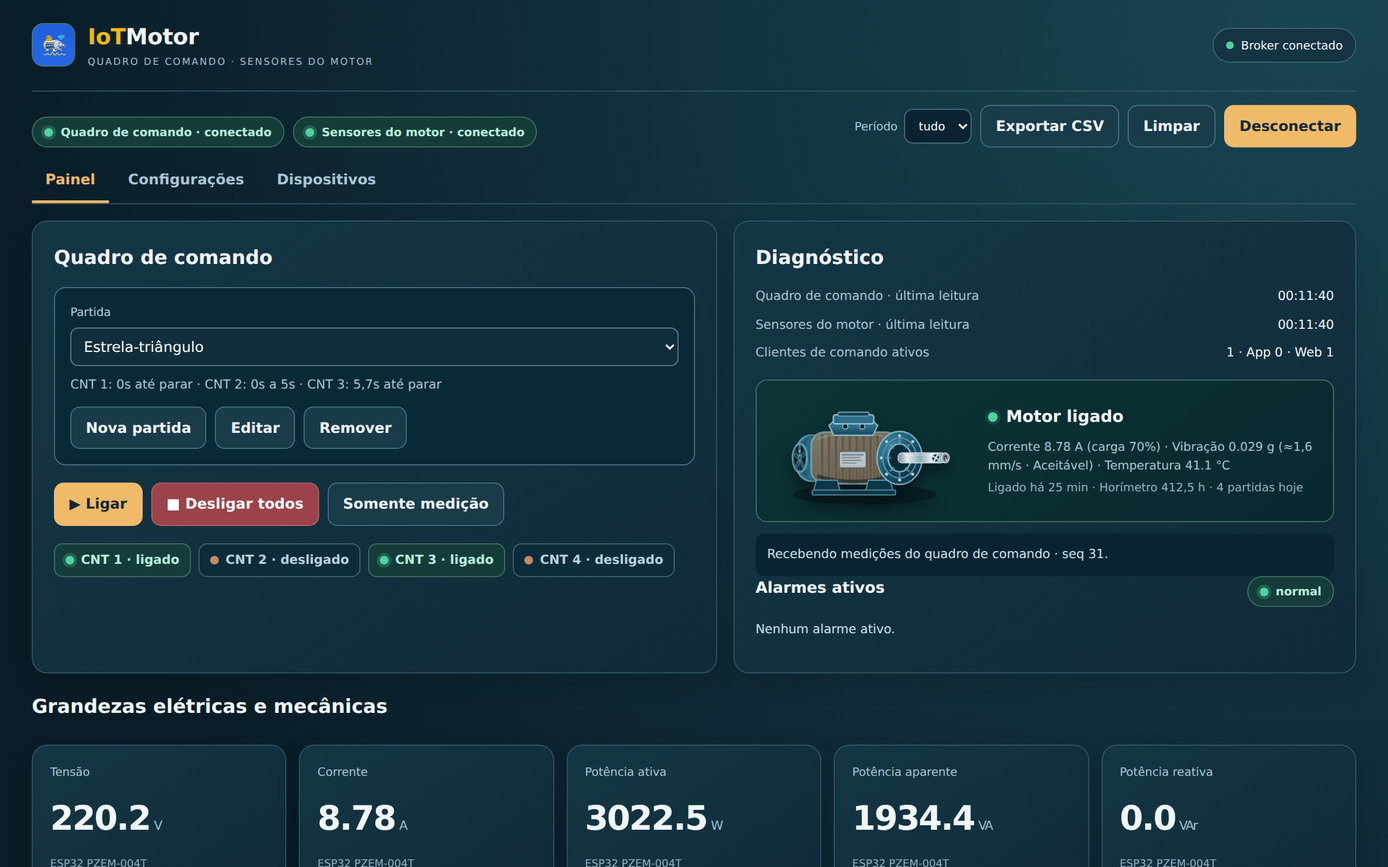
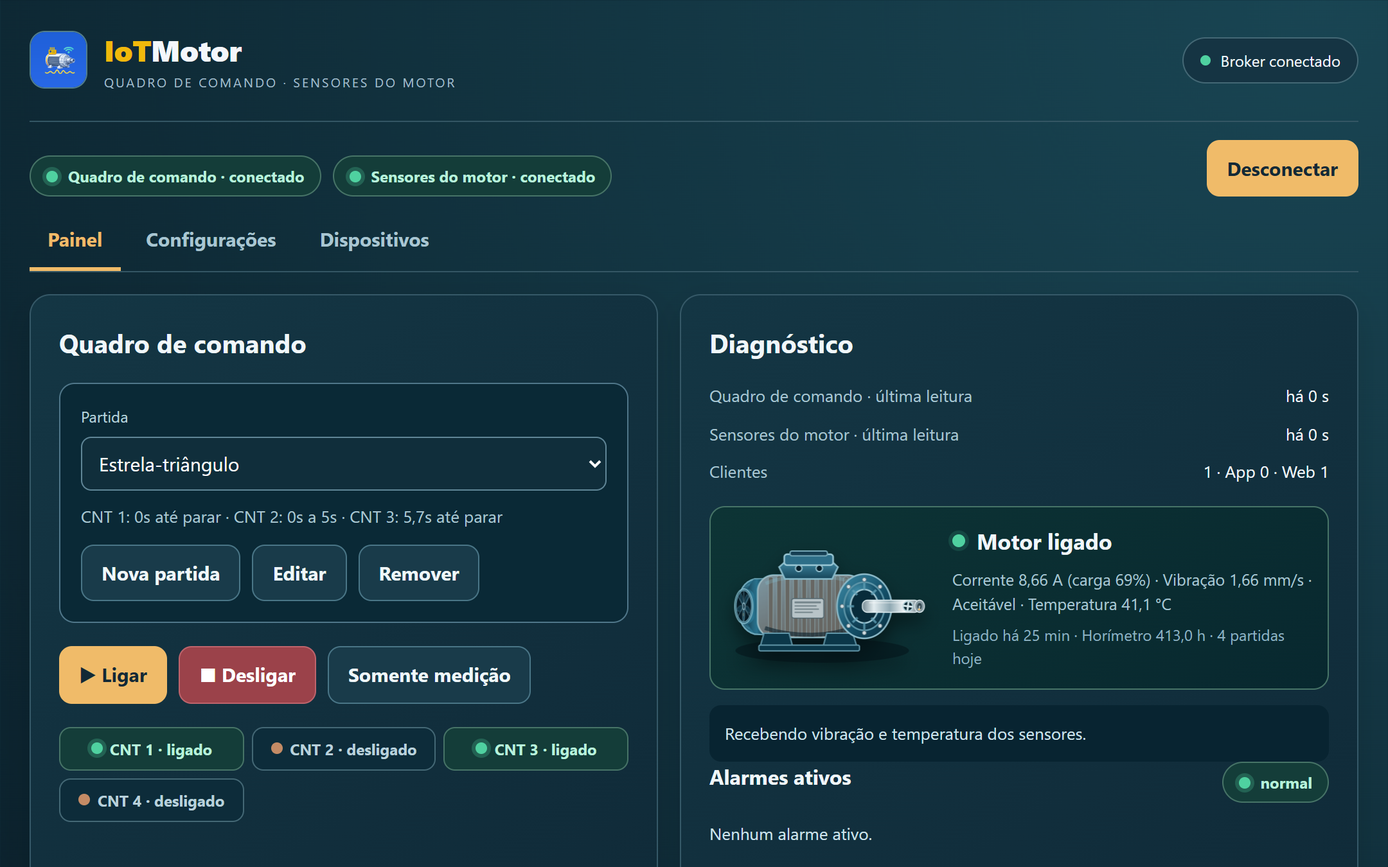
Polish dashboard readability and refresh doc screenshots
- Decimal comma in every on-screen number (cards, motor summary, chart axes,
  alarm warnings); CSV export keeps the dot.
- Last reading shown as age ("há 3 s"), red once it is stale.
- Disabled buttons use a neutral style instead of a faded action colour.
- Export CSV / Limpar move from the top bar to the real-time charts card.
- Contactor chips wrap instead of overflowing on medium widths.
- Empty feedback boxes collapse.
- New tools/capturar-telas.mjs renders docs/images from the dashboard with an
  in-page fake broker; all screenshots regenerated for v26 / s3-1.20.

diff --git a/dashboard-cloudflare/index.html b/dashboard-cloudflare/index.html
@@ -8,11 +8,11 @@
 <style>
 :root{font:15px/1.5 Inter,system-ui,-apple-system,Segoe UI,sans-serif;background:#091c27;color:#f0f7fa;color-scheme:dark}*{box-sizing:border-box}body{margin:0;min-height:100vh;background:radial-gradient(circle at 95% 0%,#194553,transparent 40%),#091c27}h1,h2,h3,p{margin-top:0}h1{font-size:clamp(31px,4vw,49px);letter-spacing:-.04em;margin-bottom:7px}h2{font-size:20px}h3{font-size:16px}button,input,select{font:inherit}button{cursor:pointer;-webkit-tap-highlight-color:transparent;transition:filter .06s ease,transform .06s ease}
 button:not(:disabled):active{filter:brightness(.975);transform:translateY(.75px)}
-@media(prefers-reduced-motion:reduce){button{transition:none;transform:none!important}}button:focus-visible,input:focus-visible,select:focus-visible{outline:3px solid #f7bb62;outline-offset:3px}.shell{max-width:1420px;margin:auto;padding:0 23px 38px}.top{display:flex;align-items:center;justify-content:space-between;gap:14px;flex-wrap:wrap;padding:22px 0;border-bottom:1px solid #345664}.brand{display:flex;align-items:center;gap:13px}.mark{display:grid;place-items:center;width:45px;height:45px;border-radius:12px;background:#1b4350;color:#f0bb69;border:1px solid #527e8c;font-size:24px}.brand b{font-size:23px;font-weight:800;color:#f4f7fb;letter-spacing:-.01em}.brand b .iot{color:#f0b90b}.brand small{display:block;font-size:10px;letter-spacing:.15em;color:#a3bfcb}.pill{display:inline-flex;align-items:center;gap:8px;border:1px solid #446875;background:#153443;border-radius:30px;padding:8px 13px;font-size:12px}.pill:before{content:"";width:8px;height:8px;border-radius:50%;background:#a4b2bb}.pill.live:before{background:#4fd1a0}.pill.error:before{background:#f88781}.pill.wait:before{background:#f0bb69}main{padding-top:28px}.intro,.graph-head{display:flex;justify-content:space-between;align-items:end;gap:16px;flex-wrap:wrap}.intro{margin-bottom:20px}.eyebrow{font-size:11px;font-weight:800;letter-spacing:.18em;color:#f0bb69}.muted{font-size:13px;color:#abc7d2}.actions,.buttons,.sources,.filters{display:flex;gap:9px;flex-wrap:wrap}.btn{background:#f0bb69;color:#132936;border:1px solid #f0bb69;border-radius:10px;padding:10px 15px;font-weight:750}.btn.secondary{background:#193b4a;border-color:#4a7687;color:#eff8fa}.btn.danger{background:#9b424a;border-color:#bf646c;color:white}.btn:disabled{opacity:.45;cursor:not-allowed}.notice{padding:15px 19px;margin-bottom:17px;background:#332e22;color:#f5e2b8;border:1px solid #77623d;border-radius:12px;font-size:13px}.source{display:inline-flex;align-items:center;gap:8px;border:1px solid #446875;border-radius:30px;background:#153443;color:#d3e6ee;padding:6px 12px;font-size:12px;font-weight:750}.source:before{content:"";flex:none;width:9px;height:9px;border-radius:50%;background:#a4b2bb}.source.live{border-color:#477467;background:#143d39;color:#b8f1db}.source.live:before{background:#4fd1a0;box-shadow:0 0 0 3px #4fd1a040}.source.wait{border-color:#77623d;background:#332e22;color:#f5e2b8}.source.wait:before{background:#f0bb69}.source.error{border-color:#8a4c52;background:#3b2327;color:#f8cfcb}.source.error:before{background:#f88781}.cnts{display:grid;grid-template-columns:repeat(4,minmax(0,1fr));gap:6px;margin:4px 0 16px}.cnt{display:inline-flex;align-items:center;justify-content:center;gap:6px;min-width:0;white-space:nowrap;border:1px solid #446875;border-radius:9px;background:#0d2c3a;color:#b9d1db;padding:7px 8px;font-size:12px;font-weight:750}.cnt:before{content:"";width:9px;height:9px;border-radius:50%;background:#6f8793}.cnt.on{border-color:#477467;background:#143d39;color:#b8f1db}.cnt.on:before{background:#4fd1a0;box-shadow:0 0 0 3px #4fd1a040}.cnt.off:before{background:#c48b65}.tabs{display:flex;gap:6px;margin:0 0 17px;border-bottom:1px solid #345664;overflow-x:auto}.tabs button{border:0;border-bottom:3px solid transparent;background:none;color:#a9c6d2;padding:10px 14px;font-weight:750;white-space:nowrap}.tabs button[aria-selected="true"]{color:#f0bb69;border-bottom-color:#f0bb69}.wifi{padding:22px;margin-bottom:19px}.wifi h3{margin:22px 0 10px}.wifi-head{display:flex;justify-content:space-between;align-items:start;gap:16px;flex-wrap:wrap}.segmented{display:inline-flex;border:1px solid #456779;border-radius:10px;overflow:hidden}.segmented button{border:0;background:#173847;color:#cce5ee;padding:9px 14px;font-weight:700}.segmented button[aria-pressed="true"]{background:#f0bb69;color:#132936}
+@media(prefers-reduced-motion:reduce){button{transition:none;transform:none!important}}button:focus-visible,input:focus-visible,select:focus-visible{outline:3px solid #f7bb62;outline-offset:3px}.shell{max-width:1420px;margin:auto;padding:0 23px 38px}.top{display:flex;align-items:center;justify-content:space-between;gap:14px;flex-wrap:wrap;padding:22px 0;border-bottom:1px solid #345664}.brand{display:flex;align-items:center;gap:13px}.mark{display:grid;place-items:center;width:45px;height:45px;border-radius:12px;background:#1b4350;color:#f0bb69;border:1px solid #527e8c;font-size:24px}.brand b{font-size:23px;font-weight:800;color:#f4f7fb;letter-spacing:-.01em}.brand b .iot{color:#f0b90b}.brand small{display:block;font-size:10px;letter-spacing:.15em;color:#a3bfcb}.pill{display:inline-flex;align-items:center;gap:8px;border:1px solid #446875;background:#153443;border-radius:30px;padding:8px 13px;font-size:12px}.pill:before{content:"";width:8px;height:8px;border-radius:50%;background:#a4b2bb}.pill.live:before{background:#4fd1a0}.pill.error:before{background:#f88781}.pill.wait:before{background:#f0bb69}main{padding-top:28px}.intro,.graph-head{display:flex;justify-content:space-between;align-items:end;gap:16px;flex-wrap:wrap}.intro{margin-bottom:20px}.eyebrow{font-size:11px;font-weight:800;letter-spacing:.18em;color:#f0bb69}.muted{font-size:13px;color:#abc7d2}.actions,.buttons,.sources,.filters{display:flex;gap:9px;flex-wrap:wrap}.btn{background:#f0bb69;color:#132936;border:1px solid #f0bb69;border-radius:10px;padding:10px 15px;font-weight:750}.btn.secondary{background:#193b4a;border-color:#4a7687;color:#eff8fa}.btn.danger{background:#9b424a;border-color:#bf646c;color:white}.btn:disabled{background:#16303c;border-color:#2f4c58;color:#7d97a2;opacity:1;cursor:not-allowed}.details dd.velha{color:#f8cfcb}.notice{padding:15px 19px;margin-bottom:17px;background:#332e22;color:#f5e2b8;border:1px solid #77623d;border-radius:12px;font-size:13px}.source{display:inline-flex;align-items:center;gap:8px;border:1px solid #446875;border-radius:30px;background:#153443;color:#d3e6ee;padding:6px 12px;font-size:12px;font-weight:750}.source:before{content:"";flex:none;width:9px;height:9px;border-radius:50%;background:#a4b2bb}.source.live{border-color:#477467;background:#143d39;color:#b8f1db}.source.live:before{background:#4fd1a0;box-shadow:0 0 0 3px #4fd1a040}.source.wait{border-color:#77623d;background:#332e22;color:#f5e2b8}.source.wait:before{background:#f0bb69}.source.error{border-color:#8a4c52;background:#3b2327;color:#f8cfcb}.source.error:before{background:#f88781}.cnts{display:grid;grid-template-columns:repeat(auto-fit,minmax(142px,1fr));gap:6px;margin:4px 0 16px}.cnt{display:inline-flex;align-items:center;justify-content:center;gap:6px;min-width:0;white-space:nowrap;border:1px solid #446875;border-radius:9px;background:#0d2c3a;color:#b9d1db;padding:7px 8px;font-size:12px;font-weight:750}.cnt:before{content:"";flex:none;width:9px;height:9px;border-radius:50%;background:#6f8793}.cnt.on{border-color:#477467;background:#143d39;color:#b8f1db}.cnt.on:before{background:#4fd1a0;box-shadow:0 0 0 3px #4fd1a040}.cnt.off:before{background:#c48b65}.tabs{display:flex;gap:6px;margin:0 0 17px;border-bottom:1px solid #345664;overflow-x:auto}.tabs button{border:0;border-bottom:3px solid transparent;background:none;color:#a9c6d2;padding:10px 14px;font-weight:750;white-space:nowrap}.tabs button[aria-selected="true"]{color:#f0bb69;border-bottom-color:#f0bb69}.wifi{padding:22px;margin-bottom:19px}.wifi h3{margin:22px 0 10px}.wifi-head{display:flex;justify-content:space-between;align-items:start;gap:16px;flex-wrap:wrap}.segmented{display:inline-flex;border:1px solid #456779;border-radius:10px;overflow:hidden}.segmented button{border:0;background:#173847;color:#cce5ee;padding:9px 14px;font-weight:700}.segmented button[aria-pressed="true"]{background:#f0bb69;color:#132936}
 /* Placa com firmware diferente do publicado: ponto âmbar na aba e no seletor. */
 .tabs button[data-update="true"]:after,.segmented button[data-update="true"]:after{content:"";display:inline-block;width:8px;height:8px;margin-left:7px;border-radius:50%;background:#f59e0b;vertical-align:middle}
 .segmented button[aria-pressed="true"][data-update="true"]:after{background:#9a3412}.wifi-status{font-size:13px;color:#cee3eb;margin:6px 0 12px}
-.wifi-list{list-style:none;margin:0;padding:0;display:grid;gap:8px;counter-reset:prio}.wifi-list li{counter-increment:prio;display:flex;align-items:center;gap:10px;flex-wrap:wrap;background:#0b2a37;border:1px solid #365968;border-radius:11px;padding:10px 12px}.wifi-list li:before{content:counter(prio);display:grid;place-items:center;flex:none;width:26px;height:26px;border-radius:50%;background:#1b4350;color:#f0bb69;font-weight:800;font-size:13px}.wifi-list li.atual{border-color:#477467}.wifi-list li.aviso{border-color:#77623d}.wifi-list li.aviso .tag{color:#f3d7a6;border-color:#77623d;background:#33291a}.wifi-list .nome{flex:1 1 140px;min-width:0;font-weight:750;overflow-wrap:anywhere}.wifi-list .tag{font-size:11px;color:#a9c6d2;border:1px solid #446875;border-radius:20px;padding:2px 8px}.wifi-list .tag.on{color:#b8f1db;border-color:#477467;background:#143d39}.wifi-list .limite{width:96px;padding:7px 9px;background:#092430;color:#fff;border:1px solid #507183;border-radius:8px}.wifi-list .check{display:flex;align-items:center;gap:6px;font-size:12px;color:#cee3eb}.wifi-list .check input{width:auto}.wifi-list .ops{display:flex;gap:6px;margin-left:auto}.wifi-list .ops button{border:1px solid #456779;background:#173847;color:#e8f3f7;border-radius:8px;min-width:34px;height:32px;font-weight:800}.wifi-list .ops button:disabled{opacity:.35;cursor:not-allowed}.wifi-list .ops .del{border-color:#8a4c52;color:#f8cfcb}.wifi-list .vazio{justify-content:center;color:#a9c6d2}.wifi-list .vazio:before{display:none}.board-health{margin:10px 0 12px;padding:10px 12px;border:1px solid #456779;border-radius:10px;background:#0b2a37;color:#cee3eb;font-size:13px;font-weight:750}.board-health.ok{border-color:#477467;background:#143d39;color:#b8f1db}.board-health.warn{border-color:#77623d;background:#332e22;color:#f5e2b8}.board-health.error{border-color:#8a4c52;background:#3b2327;color:#f8cfcb}.board-health.offline{color:#a9c6d2}.wifi-diagnostics{display:grid;grid-template-columns:minmax(150px,1fr) minmax(0,1.4fr);gap:7px 16px;margin:12px 0 16px;padding:12px;border:1px solid #365968;border-radius:10px;background:#0b2a37;font-size:13px}.wifi-diagnostics dt{color:#a9c6d2}.wifi-diagnostics dd{margin:0;text-align:right;overflow-wrap:anywhere}.wifi-actions{display:flex;gap:9px;flex-wrap:wrap;margin-top:12px}.wifi-form{display:grid;grid-template-columns:minmax(160px,1.3fr) minmax(180px,1.3fr) minmax(150px,1fr);gap:12px;align-items:end}.wifi-form .check{grid-column:1/3;font-size:13px;color:#cee3eb;display:flex;align-items:center;gap:8px}.wifi-form .btn{justify-self:start}.wifi-form select,.wifi-form input{width:100%;min-width:0;padding:10px 12px;background:#092430;color:#fff;border:1px solid #507183;border-radius:9px}.wifi-form .check input{width:auto}.pass{display:flex;gap:6px}.pass .btn{padding:8px 10px;font-size:12px}#wifiFeedback{margin-top:14px}@media(max-width:760px){.wifi-form{grid-template-columns:1fr}.wifi-form .check{grid-column:auto}}.sources{margin-bottom:16px}.panel{background:linear-gradient(145deg,#143644,#102b39);border:1px solid #365968;border-radius:16px;box-shadow:0 10px 25px #0002}.two-col{display:grid;grid-template-columns:1fr 1.08fr;gap:17px}.control,.details,.settings,.graphs{padding:22px;margin-bottom:19px}.buttons{margin:18px 0}.control-info{margin-bottom:12px}.control-info,.details dl{display:grid;grid-template-columns:1fr auto;gap:10px 15px;font-size:13px}.control-info span:nth-child(odd),.details dt{color:#a9c6d2}.control-info strong,.details dd{text-align:right}.details dd{margin:0;overflow-wrap:anywhere;max-width:330px}.feedback,.diagnostic{border-radius:9px;background:#082431;padding:12px;font-size:13px;min-height:44px;color:#cee3eb}.diagnostic{margin:12px 0 0}
+.wifi-list{list-style:none;margin:0;padding:0;display:grid;gap:8px;counter-reset:prio}.wifi-list li{counter-increment:prio;display:flex;align-items:center;gap:10px;flex-wrap:wrap;background:#0b2a37;border:1px solid #365968;border-radius:11px;padding:10px 12px}.wifi-list li:before{content:counter(prio);display:grid;place-items:center;flex:none;width:26px;height:26px;border-radius:50%;background:#1b4350;color:#f0bb69;font-weight:800;font-size:13px}.wifi-list li.atual{border-color:#477467}.wifi-list li.aviso{border-color:#77623d}.wifi-list li.aviso .tag{color:#f3d7a6;border-color:#77623d;background:#33291a}.wifi-list .nome{flex:1 1 140px;min-width:0;font-weight:750;overflow-wrap:anywhere}.wifi-list .tag{font-size:11px;color:#a9c6d2;border:1px solid #446875;border-radius:20px;padding:2px 8px}.wifi-list .tag.on{color:#b8f1db;border-color:#477467;background:#143d39}.wifi-list .limite{width:96px;padding:7px 9px;background:#092430;color:#fff;border:1px solid #507183;border-radius:8px}.wifi-list .check{display:flex;align-items:center;gap:6px;font-size:12px;color:#cee3eb}.wifi-list .check input{width:auto}.wifi-list .ops{display:flex;gap:6px;margin-left:auto}.wifi-list .ops button{border:1px solid #456779;background:#173847;color:#e8f3f7;border-radius:8px;min-width:34px;height:32px;font-weight:800}.wifi-list .ops button:disabled{opacity:.35;cursor:not-allowed}.wifi-list .ops .del{border-color:#8a4c52;color:#f8cfcb}.wifi-list .vazio{justify-content:center;color:#a9c6d2}.wifi-list .vazio:before{display:none}.board-health{margin:10px 0 12px;padding:10px 12px;border:1px solid #456779;border-radius:10px;background:#0b2a37;color:#cee3eb;font-size:13px;font-weight:750}.board-health.ok{border-color:#477467;background:#143d39;color:#b8f1db}.board-health.warn{border-color:#77623d;background:#332e22;color:#f5e2b8}.board-health.error{border-color:#8a4c52;background:#3b2327;color:#f8cfcb}.board-health.offline{color:#a9c6d2}.wifi-diagnostics{display:grid;grid-template-columns:minmax(150px,1fr) minmax(0,1.4fr);gap:7px 16px;margin:12px 0 16px;padding:12px;border:1px solid #365968;border-radius:10px;background:#0b2a37;font-size:13px}.wifi-diagnostics dt{color:#a9c6d2}.wifi-diagnostics dd{margin:0;text-align:right;overflow-wrap:anywhere}.wifi-actions{display:flex;gap:9px;flex-wrap:wrap;margin-top:12px}.wifi-form{display:grid;grid-template-columns:minmax(160px,1.3fr) minmax(180px,1.3fr) minmax(150px,1fr);gap:12px;align-items:end}.wifi-form .check{grid-column:1/3;font-size:13px;color:#cee3eb;display:flex;align-items:center;gap:8px}.wifi-form .btn{justify-self:start}.wifi-form select,.wifi-form input{width:100%;min-width:0;padding:10px 12px;background:#092430;color:#fff;border:1px solid #507183;border-radius:9px}.wifi-form .check input{width:auto}.pass{display:flex;gap:6px}.pass .btn{padding:8px 10px;font-size:12px}#wifiFeedback{margin-top:14px}@media(max-width:760px){.wifi-form{grid-template-columns:1fr}.wifi-form .check{grid-column:auto}}.sources{margin-bottom:16px}.panel{background:linear-gradient(145deg,#143644,#102b39);border:1px solid #365968;border-radius:16px;box-shadow:0 10px 25px #0002}.two-col{display:grid;grid-template-columns:1fr 1.08fr;gap:17px}.control,.details,.settings,.graphs{padding:22px;margin-bottom:19px}.buttons{margin:18px 0}.control-info{margin-bottom:12px}.control-info,.details dl{display:grid;grid-template-columns:1fr auto;gap:10px 15px;font-size:13px}.control-info span:nth-child(odd),.details dt{color:#a9c6d2}.control-info strong,.details dd{text-align:right}.details dd{margin:0;overflow-wrap:anywhere;max-width:330px}.feedback,.diagnostic{border-radius:9px;background:#082431;padding:12px;font-size:13px;min-height:44px;color:#cee3eb}.feedback:empty{min-height:0;padding:0;background:none}.diagnostic{margin:12px 0 0}
 .motor-visual{display:grid;grid-template-columns:160px minmax(0,1fr);align-items:center;gap:8px;margin:17px 0 0;padding:14px 12px 14px 8px;border:1px solid #365968;border-radius:12px;background:linear-gradient(145deg,#0b2c39,#08232f);overflow:hidden}
 .motor-stage{display:grid;place-items:center;width:190px;transform:translateX(-10px)}
 .motor-svg{display:block;width:100%;max-width:320px;height:auto;aspect-ratio:760/430;overflow:visible;filter:drop-shadow(0 8px 7px #0007)}
@@ -39,13 +39,13 @@ button:not(:disabled):active{filter:brightness(.975);transform:translateY(.75px)
 <body><div class="shell">
 <header class="top"><div class="brand"><span class="mark"><img src="./app-icon.png" alt="Ícone do IoTMotor"></span><div><b><span class="iot">IoT</span>Motor</b><small>QUADRO DE COMANDO · SENSORES DO MOTOR</small></div></div><span class="pill" role="status" id="connection"><span id="connectionText">Desconectado</span></span></header>
 <main>
-<div class="intro"><div class="sources" role="status" aria-label="Conexão dos dispositivos"><span class="source" id="pzemState">Quadro de comando · sem sinal</span><span class="source" id="sensorState">Sensores do motor · sem sinal</span></div><div class="actions"><label class="periodo" for="exportPeriodo">Período<select id="exportPeriodo" aria-label="Período da exportação"><option value="0">última hora</option><option value="15">15 min</option><option value="5">5 min</option></select></label><button class="btn secondary" type="button" id="exportBtn" disabled>Exportar CSV</button><button class="btn secondary" type="button" id="limparHistorico" title="Apaga as leituras guardadas neste navegador">Limpar</button><button class="btn" type="button" id="connectBtn">Conectar ao MQTT</button></div></div>
+<div class="intro"><div class="sources" role="status" aria-label="Conexão dos dispositivos"><span class="source" id="pzemState">Quadro de comando · sem sinal</span><span class="source" id="sensorState">Sensores do motor · sem sinal</span></div><div class="actions"><button class="btn" type="button" id="connectBtn">Conectar ao MQTT</button></div></div>
 <nav class="tabs" role="tablist" aria-label="Seções do painel"><button type="button" role="tab" id="tabBtn-painel" aria-controls="painel-painel" aria-selected="true" data-tab="painel">Painel</button><button type="button" role="tab" id="tabBtn-alarmes" aria-controls="painel-alarmes" aria-selected="false" tabindex="-1" data-tab="alarmes">Configurações</button><button type="button" role="tab" id="tabBtn-wifi" aria-controls="painel-wifi" aria-selected="false" tabindex="-1" data-tab="wifi">Dispositivos</button></nav>
 <div id="painel-painel" role="tabpanel" aria-labelledby="tabBtn-painel">
 <div class="two-col"><section class="panel control" aria-labelledby="controlTitle"><h2 id="controlTitle">Quadro de comando</h2><div class="buttons"><button class="btn" type="button" id="startBtn" disabled>▶ Ligar</button><button class="btn danger" type="button" id="stopBtn" disabled>■ Desligar</button><button class="btn secondary" type="button" id="modoBtn" disabled title="Modo instrumentação: a placa mede e publica, sem fechar contator nenhum">Somente medição</button></div><div class="cnts" id="motorValue" aria-label="Estado dos contatores"></div></section>
 <aside class="panel details"><h2>Diagnóstico</h2><dl><dt>Quadro de comando · última leitura</dt><dd id="commandAge">—</dd><dt>Sensores do motor · última leitura</dt><dd id="sensorAge">—</dd><dt>Clientes</dt><dd id="commandClients">0 · App 0 · Web 0</dd></dl><div class="motor-visual" id="motorVisual" data-state="offline"><div class="motor-stage" id="motorVisualStage" role="img" aria-label="Desenho do motor: Desconectado"><svg class="motor-svg" viewBox="0 0 760 430" aria-hidden="true"><defs><linearGradient id="motorBody" x1="0" y1="0" x2="1" y2="1"><stop offset="0" stop-color="#2d7d9b"/><stop offset=".46" stop-color="#16556f"/><stop offset="1" stop-color="#0a3447"/></linearGradient><linearGradient id="motorRear" x1="0" y1="0" x2="1" y2="0"><stop offset="0" stop-color="#173f52"/><stop offset=".55" stop-color="#2a7793"/><stop offset="1" stop-color="#0c3042"/></linearGradient><linearGradient id="motorMetal" x1="0" y1="0" x2="1" y2="0"><stop offset="0" stop-color="#778c95"/><stop offset=".2" stop-color="#e2ecef"/><stop offset=".48" stop-color="#8fa9b3"/><stop offset=".74" stop-color="#f4f8f9"/><stop offset="1" stop-color="#687d86"/></linearGradient><linearGradient id="motorFlange" x1="0" y1="0" x2="1" y2="1"><stop offset="0" stop-color="#3e8ba7"/><stop offset=".55" stop-color="#14516a"/><stop offset="1" stop-color="#082c3c"/></linearGradient><linearGradient id="motorBox" x1="0" y1="0" x2="0" y2="1"><stop offset="0" stop-color="#438ea9"/><stop offset="1" stop-color="#17465a"/></linearGradient><radialGradient id="motorEndcap" cx=".34" cy=".28" r=".82"><stop offset="0" stop-color="#4d9cb7"/><stop offset=".56" stop-color="#16516a"/><stop offset="1" stop-color="#092b3b"/></radialGradient></defs><ellipse class="motor-shadow" cx="355" cy="378" rx="270" ry="38"/><path class="motor-rear" d="M145 155C112 163 94 190 94 241c0 48 18 77 51 86l31 1V155Z"/><path d="M129 171C105 181 95 205 95 240c0 35 10 59 34 70" fill="none" stroke="#8ac5d6" stroke-width="5" opacity=".18"/><ellipse class="motor-fan-cavity" cx="111" cy="240" rx="24" ry="49"/><g class="motor-fan-perspective" transform="translate(111 240) scale(.46 1) translate(-118 -240)"><g class="motor-fan"><path class="motor-fan-blade" d="M113 231C104 215 107 197 118 191c7 13 8 28 3 43Z"/><path class="motor-fan-blade" d="M113 231C104 215 107 197 118 191c7 13 8 28 3 43Z" transform="rotate(72 118 240)"/><path class="motor-fan-blade" d="M113 231C104 215 107 197 118 191c7 13 8 28 3 43Z" transform="rotate(144 118 240)"/><path class="motor-fan-blade" d="M113 231C104 215 107 197 118 191c7 13 8 28 3 43Z" transform="rotate(216 118 240)"/><path class="motor-fan-blade" d="M113 231C104 215 107 197 118 191c7 13 8 28 3 43Z" transform="rotate(288 118 240)"/><circle class="motor-fan-marker" cx="117" cy="214" r="4.5"/><circle class="motor-fan-hub" cx="118" cy="240" r="10"/></g></g><ellipse class="motor-fan-rim" cx="111" cy="240" rx="28" ry="54"/><g class="motor-fan-grid"><line x1="111" y1="188" x2="111" y2="292"/><line x1="91" y1="206" x2="130" y2="274"/><line x1="91" y1="274" x2="130" y2="206"/></g><path class="motor-fan-shade" d="M123 185C143 195 151 214 151 240c0 27-8 46-28 56l18 26 34 6V155l-34 1Z"/><rect class="motor-body" x="154" y="143" width="330" height="194" rx="50"/><g><rect class="motor-fin-3d" x="188" y="149" width="14" height="181" rx="5"/><rect class="motor-fin-3d" x="214" y="146" width="14" height="187" rx="5"/><rect class="motor-fin-3d" x="240" y="144" width="14" height="190" rx="5"/><rect class="motor-fin-3d" x="266" y="143" width="14" height="192" rx="5"/><rect class="motor-fin-3d" x="292" y="142" width="14" height="193" rx="5"/><rect class="motor-fin-3d" x="318" y="142" width="14" height="193" rx="5"/><rect class="motor-fin-3d" x="344" y="143" width="14" height="192" rx="5"/><rect class="motor-fin-3d" x="370" y="144" width="14" height="190" rx="5"/><rect class="motor-fin-3d" x="396" y="146" width="14" height="187" rx="5"/><rect class="motor-fin-3d" x="422" y="149" width="14" height="181" rx="5"/></g><rect class="motor-heat" x="154" y="143" width="330" height="194" rx="50"/><path class="motor-highlight" d="M179 169c66-29 199-29 274-4"/><path class="motor-lowlight" d="M177 308c90 30 206 27 278-4"/><path class="motor-foot3d" d="M174 324h78l12 45H161Z"/><path class="motor-foot3d" d="M369 324h81l14 45H357Z"/><rect class="motor-foot3d" x="158" y="361" width="313" height="18" rx="5"/><path class="motor-box" d="M247 95h132l25 23-18 37H239l-18-37Z"/><rect class="motor-box-top" x="237" y="78" width="152" height="34" rx="9"/><rect x="255" y="68" width="116" height="15" rx="6" fill="#163f53" stroke="#75a7b7" stroke-width="4"/><circle cx="282" cy="122" r="10" fill="#071e29" stroke="#91bdca" stroke-width="4"/><circle cx="346" cy="122" r="10" fill="#071e29" stroke="#91bdca" stroke-width="4"/><ellipse class="motor-flange" cx="486" cy="240" rx="85" ry="100"/><ellipse class="motor-endcap" cx="486" cy="240" rx="63" ry="75"/><ellipse class="motor-bearing" cx="486" cy="240" rx="43" ry="52"/><g class="motor-spoke"><line x1="486" y1="168" x2="486" y2="190"/><line x1="486" y1="290" x2="486" y2="312"/><line x1="432" y1="240" x2="454" y2="240"/><line x1="518" y1="240" x2="540" y2="240"/><line x1="450" y1="190" x2="464" y2="205"/><line x1="508" y1="276" x2="523" y2="292"/><line x1="450" y1="290" x2="465" y2="275"/><line x1="508" y1="204" x2="523" y2="189"/></g><g><circle class="motor-bolt" cx="486" cy="157" r="6"/><circle class="motor-bolt" cx="486" cy="323" r="6"/><circle class="motor-bolt" cx="417" cy="240" r="6"/><circle class="motor-bolt" cx="555" cy="240" r="6"/><circle class="motor-bolt" cx="437" cy="179" r="6"/><circle class="motor-bolt" cx="535" cy="179" r="6"/><circle class="motor-bolt" cx="437" cy="301" r="6"/><circle class="motor-bolt" cx="535" cy="301" r="6"/></g><rect class="motor-shaft" x="480" y="221" width="178" height="38" rx="16"/><line class="motor-shaft-hi" x1="501" y1="229" x2="638" y2="229"/><ellipse cx="658" cy="240" rx="15" ry="19" fill="#8599a1" stroke="#e0ebee" stroke-width="3"/><ellipse cx="658" cy="240" rx="7" ry="10" fill="#31464e"/><g class="motor-shaft-rotor"><line x1="658" y1="240" x2="658" y2="232"/><circle class="motor-shaft-mark" cx="658" cy="230" r="2.6"/></g><rect class="motor-plate" x="260" y="216" width="100" height="61" rx="7"/><rect class="motor-plate-line" x="269" y="225" width="82" height="6" rx="2"/><rect class="motor-plate-line" x="269" y="237" width="69" height="4" rx="2"/><rect class="motor-plate-line" x="269" y="247" width="76" height="4" rx="2"/><rect class="motor-plate-line" x="269" y="257" width="57" height="4" rx="2"/><circle class="motor-motion" cx="622" cy="240" r="33"/><g class="motor-rotor"><circle cx="622" cy="240" r="15"/><line x1="622" y1="227" x2="622" y2="253"/><line x1="609" y1="240" x2="635" y2="240"/></g><g class="motor-alarm-vib"><path d="M140 334c-12 13-12 34 0 47"/><path d="M118 322c-20 22-20 50 0 72"/><path d="M490 334c12 13 12 34 0 47"/><path d="M512 322c20 22 20 50 0 72"/></g><g class="motor-alarm-temp" transform="translate(222 208)"><circle class="motor-alarm-dot" r="38"/><rect class="motor-alarm-glyph" x="-7" y="-26" width="14" height="36" rx="7"/><circle class="motor-alarm-glyph" cy="14" r="13"/></g></svg></div><div class="motor-visual-copy"><div class="motor-visual-top"><strong id="motorVisualStatus">Desconectado</strong></div><small id="motorVisualMetrics">Conecte ao MQTT para visualizar o estado do motor.</small><small class="motor-visual-uso" id="motorVisualUso" hidden></small></div></div><p class="diagnostic" id="diagnostic" aria-live="polite">Conecte ao broker para acompanhar as duas placas.</p><div class="wifi-head"><h3 id="alarmeAtivosTitle">Alarmes ativos</h3><span class="source" id="alarmeEstado" aria-live="polite">sem sinal</span></div><p class="wifi-status" id="alarmeAtivosResumo" aria-live="polite">Conecte ao MQTT para acompanhar os alarmes ativos.</p><ol class="wifi-list" id="alarmeAtivosLista" aria-label="Alarmes ativos neste momento"></ol></aside></div>
 <section aria-label="Grandezas"><div class="graph-head"><h2>Grandezas elétricas e mecânicas</h2></div><div class="metrics" id="metrics"></div></section>
-<section class="panel graphs"><div class="graph-head"><h2>Gráficos em tempo real</h2></div><div class="filters" role="group" aria-label="Escolher gráficos"><button type="button" data-group="todos" aria-pressed="true">Todos</button><button type="button" data-group="eletrica" aria-pressed="false">Elétricas</button><button type="button" data-group="mecanica" aria-pressed="false">Vibração e temperatura</button></div><div class="plots" id="plots"></div></section>
+<section class="panel graphs"><div class="graph-head"><h2>Gráficos em tempo real</h2><div class="actions"><label class="periodo" for="exportPeriodo">Período<select id="exportPeriodo" aria-label="Período da exportação"><option value="0">última hora</option><option value="15">15 min</option><option value="5">5 min</option></select></label><button class="btn secondary" type="button" id="exportBtn" disabled>Exportar CSV</button><button class="btn secondary" type="button" id="limparHistorico" title="Apaga as leituras guardadas neste navegador">Limpar</button></div></div><div class="filters" role="group" aria-label="Escolher gráficos"><button type="button" data-group="todos" aria-pressed="true">Todos</button><button type="button" data-group="eletrica" aria-pressed="false">Elétricas</button><button type="button" data-group="mecanica" aria-pressed="false">Vibração e temperatura</button></div><div class="plots" id="plots"></div></section>
 <section class="panel graphs" aria-labelledby="historyTitle"><div class="graph-head"><h2 id="historyTitle">Histórico da placa · últimos 7 dias</h2></div><div class="filters" role="group" aria-label="Grandeza do histórico" id="historyFilters"></div><p class="muted" id="historyResumo" aria-live="polite"></p><svg class="chart" id="historyChart" viewBox="0 0 650 215" style="height:215px" role="img"></svg><p class="muted" id="historyLegenda"></p></section>
 
 </div>

diff --git a/dashboard-cloudflare/dual-dashboard.js b/dashboard-cloudflare/dual-dashboard.js
@@ -44,6 +44,14 @@ const state={config:{...DEFAULT},client:null,generation:0,connected:false,subscr
  acquisition:{...ACQ_DEFAULT},lastRecord:{},series:Object.fromEntries(METRICS.map(m=>[m.key,[]])),records:[],pending:null};
 let commandWasFresh=false;
 function numeric(v){if(v===null||v===undefined||v==='')return null;const n=Number(typeof v==='string'?v.replace(',','.'):v);return Number.isFinite(n)?n:null;}
+// Números na tela sempre com vírgula decimal (pt-BR); o CSV continua com ponto.
+function numeroBr(v,casas){return v.toFixed(casas).replace('.',',');}
+// Idade de uma leitura ("há 3 s"): diz na hora se o dado está atual.
+function idadeLeitura(at,now=Date.now()){
+ if(!at)return '—';
+ const s=Math.max(0,Math.round((now-at)/1000));
+ return s<60?`há ${s} s`:s<3600?`há ${Math.floor(s/60)} min`:`há ${Math.floor(s/3600)} h`;
+}
 function field(source,keys){for(const key of keys){const n=numeric(source[key]);if(n!==null)return n;}return null;}
 function parseTelemetry(json){
  if(!json||typeof json!=='object'||Array.isArray(json))return null;
@@ -194,7 +202,7 @@ function motorWarnings({brokerReady,command,sensor,alarms,maintenance}){
   const chave=`${a.field}:${above}`,anterior=porGrandeza.get(chave);
   if(anterior&&(anterior.passou||!passou))continue;
   const label=extra?.label??metric.label,unit=extra?.unit??metric.unit,digits=extra?.digits??metric.digits;
-  porGrandeza.set(chave,{passou,kind:passou?'over':'near',field:a.field,level:passou?'alarm':'warn',text:`${label} ${above?'alta':'baixa'}: ${value.toFixed(digits)}${unit?` ${unit}`:''} (limite ${a.limit}${unit?` ${unit}`:''})`});
+  porGrandeza.set(chave,{passou,kind:passou?'over':'near',field:a.field,level:passou?'alarm':'warn',text:`${label} ${above?'alta':'baixa'}: ${numeroBr(value,digits)}${unit?` ${unit}`:''} (limite ${String(a.limit).replace('.',',')}${unit?` ${unit}`:''})`});
  }
  for(const {kind,field,level,text} of porGrandeza.values())out.push({kind,field,level,text});
  return out;
@@ -307,13 +315,13 @@ function renderMotorVisual(){
  const dados=[];
  if(cmd?.current!==null&&cmd?.current!==undefined){
   const carga=cmd.motorOn===true?motorLoad(cmd.current,window.iotmotorMotorInfo?.dados?.()?.current_in_use_a):null;
-  dados.push(`Corrente ${cmd.current.toFixed(2)} A${carga!==null?` (carga ${carga}%)`:''}`);
+  dados.push(`Corrente ${numeroBr(cmd.current,2)} A${carga!==null?` (carga ${carga}%)`:''}`);
  }
  // Classificação só com o motor girando: parado, a vibração é ruído do sensor.
  const vib=vibrationText(sensor,cmd?.motorOn,info);
  if(vib)dados.push(vib.texto);
  if(vib?.iso)root.dataset.vibZone=String(vib.iso.zona);else delete root.dataset.vibZone;
- if(sensor?.temperature!==null&&sensor?.temperature!==undefined)dados.push(`Temperatura ${sensor.temperature.toFixed(1)} °C`);
+ if(sensor?.temperature!==null&&sensor?.temperature!==undefined)dados.push(`Temperatura ${numeroBr(sensor.temperature,1)} °C`);
  text('motorVisualMetrics',dados.length?dados.join(' · '):
   visual.state==='offline'?'Conecte ao MQTT para visualizar o estado do motor.':'Sem grandezas recentes para exibir.');
  const manutencao=maintenanceStatus(info,cmd?.runSTotal);
@@ -348,7 +356,7 @@ function drawChart(target,metric){
  target.replaceChildren();
  if(!values.length){target.append(svg('text',{x:320,y:105,'text-anchor':'middle',class:'empty'},'Sem leitura disponível'));return;}
  let min=Math.min(...values),max=Math.max(...values);const pad=Math.max((max-min)*.12,Math.abs(max)*.01,.01);min-=pad;max+=pad;
- for(let i=0;i<4;i++){const y=20+160*i/3;target.append(svg('line',{x1:53,x2:633,y1:y,y2:y,class:'gridline'}));target.append(svg('text',{x:45,y:y+4,'text-anchor':'end'},(max-(max-min)*i/3).toFixed(metric.digits>2?2:metric.digits)));}
+ for(let i=0;i<4;i++){const y=20+160*i/3;target.append(svg('line',{x1:53,x2:633,y1:y,y2:y,class:'gridline'}));target.append(svg('text',{x:45,y:y+4,'text-anchor':'end'},numeroBr(max-(max-min)*i/3,metric.digits>2?2:metric.digits)));}
  // Grade vertical: 5 faixas; nas linhas do meio, a hora da amostra ali.
  const entries=state.series[metric.key];
  for(let k=0;k<=5;k++){
@@ -375,12 +383,16 @@ function buildCards(){const root=$('metrics');for(const m of METRICS){
  const detail=document.createElement('small');detail.id=`hint-${m.key}`;detail.textContent='Sem leitura';item.append(label,value,detail);root.append(item);
 }}
 function render(){
- for(const m of METRICS){const value=valueFor(m),source=state[m.source];text(`value-${m.key}`,value===null?'—':value.toFixed(m.digits));
+ for(const m of METRICS){const value=valueFor(m),source=state[m.source];text(`value-${m.key}`,value===null?'—':numeroBr(value,m.digits));
  text(`hint-${m.key}`,value===null?'':source.sample.demo?'Simulado — não é medição':m.source==='command'?'ESP32 PZEM-004T':'ESP32-S3 sensores');}
  renderDevice('pzemState','command',NOMES.command);
  renderDevice('sensorState','sensor',NOMES.sensor);
- text('commandAge',state.command.at?new Date(state.command.at).toLocaleTimeString('pt-BR'):'—');
- text('sensorAge',state.sensor.at?new Date(state.sensor.at).toLocaleTimeString('pt-BR'):'—');
+ for(const [id,which] of [['commandAge','command'],['sensorAge','sensor']]){
+  const at=state[which].at;text(id,idadeLeitura(at));
+  // Mesma regra do selo de conexão: passou de 10 s, o dado está velho.
+  $(id).className=at&&!freshness(which)?'velha':'';
+  $(id).title=at?new Date(at).toLocaleTimeString('pt-BR'):'';
+ }
  $('exportBtn').disabled=!state.records.length;updateControl();renderMotorVisual();renderCharts();
 }
 function reset(){commandWasFresh=false;state.command={sample:null,at:0,count:0,status:'—',statusAt:0};state.sensor={sample:null,at:0,count:0,status:'—',statusAt:0};
@@ -611,4 +623,4 @@ function init(){
  },1500);
 }
 if(typeof document!=='undefined')init();
-if(typeof module!=='undefined'&&module.exports)module.exports={tripText,registroCsv,parseTelemetry,validateConfig,telemetryFresh,deviceConnection,motorVisualState,motorVisualAria,motorLoad,formatDuration,usageLine,maintenanceStatus,maintenanceText,vibrationZone,vibrationText,commandPendingLabel,motorWarnings,motorHeat,temperatureLimit,alarmParts,registrosValidos,chartBucketStart,upsertChartPoint,METRICS};
+if(typeof module!=='undefined'&&module.exports)module.exports={numeroBr,idadeLeitura,tripText,registroCsv,parseTelemetry,validateConfig,telemetryFresh,deviceConnection,motorVisualState,motorVisualAria,motorLoad,formatDuration,usageLine,maintenanceStatus,maintenanceText,vibrationZone,vibrationText,commandPendingLabel,motorWarnings,motorHeat,temperatureLimit,alarmParts,registrosValidos,chartBucketStart,upsertChartPoint,METRICS};

diff --git a/dashboard-cloudflare/local-controls.js b/dashboard-cloudflare/local-controls.js
@@ -34,7 +34,7 @@
     <p class="muted" style="margin:0 0 14px">Marque os contatores e informe, em segundos, quando cada um liga e desliga. Desligar em <strong>0</strong> = fica ligado até parar.</p>
     <div class="field"><label for="profileNome">Nome</label><input id="profileNome" maxlength="24" required style="width:100%;padding:10px 12px;background:#092430;color:#fff;border:1px solid #507183;border-radius:9px"></div>
     <table style="width:100%;margin-top:14px;border-collapse:collapse;font-size:14px"><thead><tr><th style="text-align:left;padding:6px 4px">Contator</th><th style="text-align:left;padding:6px 4px">Liga (s)</th><th style="text-align:left;padding:6px 4px">Desliga (s)</th></tr></thead><tbody id="profileLinhas"></tbody></table>
-    <p class="feedback" id="profileErro" style="margin-top:14px">&nbsp;</p>
+    <p class="feedback" id="profileErro" style="margin-top:14px" aria-live="polite"></p>
     <div class="buttons" style="justify-content:flex-end"><button class="btn secondary" type="button" id="profileCancelar">Cancelar</button><button class="btn" type="button" id="profileSalvar">Salvar na placa</button></div></form>`;
   document.body.append(dialogo);
 
@@ -81,7 +81,7 @@
 
   function abrirEditor(perfil) {
     $('profileNome').value = perfil?.name || '';
-    $('profileErro').textContent = ' ';
+    $('profileErro').textContent = '';
     for (const n of CONTATORES) {
       const c = perfil?.cnt?.[n - 1];
       $(`usa${n}`).checked = c ? c.use === true : n === 1;

diff --git a/docs/desenvolvimento.md b/docs/desenvolvimento.md
@@ -61,6 +61,20 @@ dart run tool/esp32_02_simulator.dart --host test.mosquitto.org --prefix iotmoto
 Use um prefixo próprio (como `iotmotor-teste`) para não misturar com a bancada
 real, e configure o mesmo prefixo no painel. `--help` lista as opções.
 
+## Capturas de tela da documentação
+
+As imagens de `docs/images/*.png` saem do próprio painel:
+
+```sh
+node tools/capturar-telas.mjs          # todas
+node tools/capturar-telas.mjs painel   # só as que têm "painel" no nome
+```
+
+O script abre o painel no Edge ou Chrome sem janela e troca o MQTT por um broker
+de mentira dentro da página, com as duas placas publicando dados parecidos com os
+reais. Nada vai para o broker público. Depois de mudar a interface, rode de novo
+e confira as imagens antes do commit.
+
 ## Testes
 
 | O quê | Comando |

diff --git a/docs/guia-de-uso.md b/docs/guia-de-uso.md
@@ -248,7 +248,7 @@ hora, guardados na placa de sensores. O registro continua com o painel fechado.
 
 Há também o **histórico do navegador**: as leituras da **última hora** recebidas
 enquanto o painel está aberto, guardadas só naquele navegador e respeitando o
-intervalo de **Registro de dados** configurado. Use **Período**
+intervalo de **Registro de dados** configurado. No cartão **Gráficos em tempo real**, use **Período**
 (última hora, 15 min ou 5 min) e **Exportar CSV** para levar os dados para uma
 planilha, e **Limpar** para apagá-los. Para períodos maiores, use o histórico da
 placa acima (7 dias, por hora).
